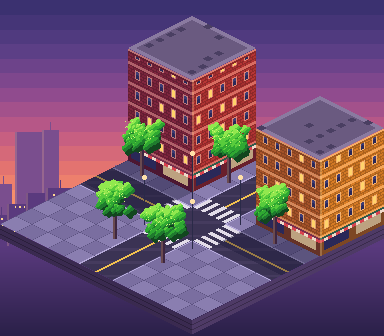
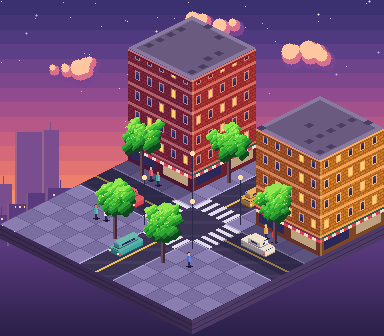
Iso block: cars, pedestrians, pixel-cluster clouds and stars
Claude-Session: https://claude.ai/code/session_018A3EjUJwum2xaBpGm7gsrV

diff --git a/games/background/iso/make_iso_v2.py b/games/background/iso/make_iso_v2.py
@@ -1,0 +1,177 @@
+"""Isometric city block, 2:1 pixel iso (tile 32x16), dusk. Art grid 384x336, then an HD-2D look pass (bloom, tilt-shift, vignette)."""
+import math, random
+from PIL import Image, ImageFilter, ImageChops
+W,H=384,336; OX,OY=192,128; N=12
+def hx(s): s=s.lstrip('#'); return tuple(int(s[i:i+2],16) for i in (0,2,4))
+def lerp(a,b,t): return tuple(max(0,min(255,int(a[i]+(b[i]-a[i])*t))) for i in range(3))
+def hsh(*a): return (hash(a)&0xffff)/65535.0
+SKY=[hx(c) for c in ("#3b3170","#5a3f86","#8a4a90","#c05a86","#e8776e","#ffa06a","#ffc383")]
+im=Image.new("RGB",(W,H)); px=im.load()
+STEPS=18
+def skycol(k):
+    pos=k/(STEPS-1)*(len(SKY)-1); i=min(int(pos),len(SKY)-2); return lerp(SKY[i],SKY[i+1],pos-i)
+for y in range(H):
+    k=min(STEPS-1,int(y/ (H*0.78) *STEPS))
+    for x in range(W): px[x,y]=skycol(k)
+rs=random.Random(5)
+# far skyline: two flat layers with a few lit windows (hard shapes, no dither)
+def skyline(base,hmin,hmax,col,win,seed):
+    r=random.Random(seed); x=-6
+    while x<W:
+        w=r.randint(14,30); h=r.randint(hmin,hmax)
+        for xx in range(x,min(W,x+w)):
+            for yy in range(base-h,base):
+                if 0<=xx<W and 0<=yy<H:
+                    c=col
+                    if xx==x or xx==x+1: c=lerp(col,(255,190,150),.22)
+                    if win and (xx-x)%5 in (2,3) and (yy%6) in (2,3) and yy<base-4 and 3<xx-x<w-3 and hsh(xx//5,yy//6,seed)<.3: c=hx("#ffd890")
+                    px[xx,yy]=c
+        if r.random()<.4:
+            for yy in range(base-h-8,base-h):
+                if 0<=x+w//2<W and 0<=yy<H: px[x+w//2,yy]=col
+        x+=w+r.randint(-4,3)
+skyline(232,40,110,hx("#7a4e8e"),False,1)
+skyline(246,26,80,hx("#5a3a7e"),True,2)
+for yy in range(246,H):
+    for xx in range(W): px[xx,yy]=lerp(hx("#5a3a7e"),hx("#2a2048"),(yy-246)/(H-246))
+def put(x,y,c):
+    if 0<=x<W and 0<=y<H: px[x,y]=c
+def scr(gx,gy,gz=0): return int(round(OX+(gx-gy)*16)), int(round(OY+(gx+gy)*8-gz))
+def inv(sx,sy): a=(sx-OX)/16; b=(sy-OY)/8; return (a+b)/2,(b-a)/2
+BUILD=[(0,4,0,4,112,"brick"),(8,12,0,4,96,"orange")]      # bx0,bx1,by0,by1,height,colour
+def inshadow(gx,gy):
+    for bx0,bx1,by0,by1,h,_ in BUILD:
+        d=h/40.0
+        if bx0<=gx<bx1 and by1<=gy<by1+d*(1-0.0): return True
+    return False
+ROAD=lambda g:5<=g<7
+ASPH=hx("#3b3354"); ASPH2=hx("#453b5e"); SIDE=hx("#8a7eb0"); SIDE2=hx("#7a6ea0"); JOINT=hx("#5c5280"); CURB=hx("#b4a8d8")
+# ---- ground by inverse mapping
+for y in range(H):
+    for x in range(W):
+        gx,gy=inv(x+.5,y+.5)
+        if not(0<=gx<N and 0<=gy<N): continue
+        rx,ry=ROAD(gx),ROAD(gy)
+        if rx or ry:
+            c=ASPH if int(gx*3+gy*3)%5 else ASPH2
+            if rx and ry: pass
+            elif ry:   # road runs along x (gy in 5..7)
+                if abs(gy-6)<.05 and not(3.9<gx<5.05 or 6.95<gx<8.1): c=hx("#f2c14e")
+                elif (3.9<gx<4.9 or 7.1<gx<8.1) and int((gy-5)*4.5)%2==0: c=hx("#e2dce8")
+            else:      # road runs along y
+                if abs(gx-6)<.05 and not(3.9<gy<5.05 or 6.95<gy<8.1): c=hx("#f2c14e")
+                elif (3.9<gy<4.9 or 7.1<gy<8.1) and int((gx-5)*4.5)%2==0: c=hx("#e2dce8")
+        else:
+            c=SIDE if (int(gx)+int(gy))%2 else SIDE2
+            for e in (5,7):
+                if abs(gx-e)<.09 or abs(gy-e)<.09: c=CURB
+            if abs(gx-int(gx))<.04 or abs(gy-int(gy))<.04: c=JOINT
+        if inshadow(gx,gy): c=lerp(c,hx("#1d1a3a"),.42)
+        px[x,y]=c
+# ---- slab sides (diorama thickness)
+TH=14
+for i in range(N*16):
+    for side in (0,1):
+        if side==0: xc=OX-(N-0)*0; sx=scr(N,N)[0]-1-i; ytop=scr(N,N)[1]-i//2   # left face (gy=N)
+        else: sx=scr(N,N)[0]+i; ytop=scr(N,N)[1]-i//2
+        for t in range(TH):
+            c=hx("#3a2a50") if side==0 else hx("#4e3a66")
+            if t%5==4: c=lerp(c,(0,0,0),.25)
+            put(sx,ytop+t,c)
+# ---- sprites
+def building(bx0,bx1,by0,by1,Hh,kind):
+    lit,shd={"brick":(hx("#c83a3a"),hx("#8e2a46")),"orange":(hx("#f08a2a"),hx("#c06030")),"blue":(hx("#4a6ad0"),hx("#2f4496"))}[kind]
+    xc,yc=scr(bx1,by1)
+    for face in (0,1):
+        L=((bx1-bx0) if face==0 else (by1-by0))*16
+        base=shd if face==0 else lit
+        for i in range(L):
+            sx=xc-1-i if face==0 else xc+i
+            yb=yc-i//2
+            for v in range(Hh):
+                y=yb-v-1; c=base
+                u=i if face==0 else i
+                fl=v//20; fv=v%20
+                if v<18:                                         # ground floor shop
+                    c=lerp(base,(10,5,30),.5)
+                    if 3<v<13 and 3<u%32<29: c=lerp(hx("#5a5aa0"),hx("#ffd36b"),.6) if (u//32+face)%2==0 else hx("#2a2858")
+                    elif 13<=v<16: c=hx("#d8434f") if (u//4)%2==0 else hx("#f0d8c8")
+                    elif v>=16: c=hx("#7a2f4c") if face==0 else hx("#2f5a4a")
+                elif fv>=17 and v<Hh-4: c=lerp(base,(255,225,190),.3)       # floor ledge
+                elif v>=Hh-4: c=lerp(base,(255,225,190),.4) if v>=Hh-2 else lerp(base,(0,0,0),.3)  # cornice
+                elif 4<fv<14 and 3<u%12<9:
+                    inner=5<fv<13 and 4<u%12<8
+                    lit_w=hsh(u//12,fl,face,bx0)<.4
+                    c=(hx("#ffd36b") if lit_w else hx("#2a2858")) if inner else lerp(base,(255,225,190),.45)
+                    if inner and not lit_w and fv>9: c=lerp(c,hx("#5a5aa0"),.4)
+                else:
+                    row=v//3; off=2 if row%2 else 0
+                    j=hsh(row,(u+off)//5,face)
+                    c=lerp(base,(0,0,0),.08+.1*j)
+                    if v%3==0 or (u+off)%5==0: c=lerp(base,(0,0,0),.3)
+                if i<2: c=lerp(c,(255,225,170),.25) if face==1 else c   # edge light
+                put(sx,y,c)
+    # roof
+    pts=[scr(bx0,by0,Hh),scr(bx1,by0,Hh),scr(bx1,by1,Hh),scr(bx0,by1,Hh)]
+    xs=[p[0] for p in pts]; ys=[p[1] for p in pts]
+    for y in range(int(min(ys)),int(max(ys))+1):
+        for x in range(int(min(xs)),int(max(xs))+1):
+            gx,gy=inv(x+.5,y+.5+ (Hh))   # invert at roof height
+            if bx0<=gx<bx1 and by0<=gy<by1:
+                c=hx("#6a5a80"); 
+                if gx<bx0+.25 or gy<by0+.25 or gx>bx1-.25 or gy>by1-.25: c=hx("#8a7aa0")
+                if hsh(int(gx*3),int(gy*3))<.08: c=hx("#4a3f62")
+                put(x,y,c)
+G=[tuple(hx(c)) for c in ("#12461f","#1f7a2e","#2fa832","#58cc3c","#92e84e","#d0f470")]
+def tree(gx,gy,seed):
+    rnd=random.Random(seed); sx,sy=scr(gx,gy)
+    for y in range(sy-26,sy+1):
+        for x in range(sx-2,sx+2): put(x,y,hx("#6a4a50") if x<sx else hx("#3e2640"))
+    cx,cy=sx,sy-40
+    lumps=[(cx+rnd.uniform(-1,1)*18*math.sqrt(rnd.random()),cy+rnd.uniform(-1,1)*14,rnd.uniform(4.5,7.5)) for _ in range(34)]
+    lumps.sort(key=lambda l:l[1]+l[0]*.5)
+    for li,(lx,ly,r) in enumerate(lumps):
+        for y in range(int(ly-r)-1,int(ly+r)+2):
+            for x in range(int(lx-r)-1,int(lx+r)+2):
+                dx,dy=x-lx,y-ly
+                if dx*dx+dy*dy*1.1>(r*(1+.15*math.sin(math.atan2(dy,dx)*4+li)))**2: continue
+                t=(-dx*.6-dy*.8)/r*.9-((ly-cy)/14)*.55
+                k=0 if t<-.55 else 1 if t<-.1 else 2 if t<.35 else 3 if t<.75 else 4
+                put(x,y,G[k])
+    for _ in range(26): put(int(cx+rnd.uniform(-17,12)),int(cy+rnd.uniform(-14,4)),G[5])
+def lamp(gx,gy):
+    sx,sy=scr(gx,gy)
+    for y in range(sy-44,sy+1): put(sx,y,hx("#2a2a48"))
+    for dx in range(-2,3):
+        for dy in range(-2,3):
+            if abs(dx)+abs(dy)<=3: put(sx+dx,sy-47+dy,hx("#ffe0a8"))
+objs=[("b",BUILD[0],4),("b",BUILD[1],12)]
+for gx,gy in ((4.5,2.2),(7.5,2.2),(4.5,9.3),(7.5,9.3),(1.4,4.5),(9.8,4.6)): objs.append(("t",(gx,gy),gx+gy))
+for gx,gy in ((4.5,4.5),(7.5,4.5),(4.5,7.5),(7.5,7.5)): objs.append(("l",(gx,gy),gx+gy+.1))
+objs.sort(key=lambda o:o[2])
+for k,(kind,a,_) in enumerate(objs):
+    if kind=="b": building(*a)
+    elif kind=="t": tree(a[0],a[1],k)
+    else: lamp(*a)
+art=im; art.save("iso_block_art.png")
+S=3; big=art.resize((W*S,H*S),Image.NEAREST); big.save("iso_block_x3.png")
+# ---- HD-2D look pass: bloom on bright, tilt-shift blur, vignette, warm grade
+try:
+    import numpy as np
+    a=np.asarray(big).astype("float32")/255
+    art_np=np.asarray(art).astype("int16")
+    def near(c,t=10): return (abs(art_np-np.array(c)).sum(axis=2)<t)
+    lights=near((255,211,107))|near((255,224,168))|near((255,217,140),14)
+    lm=np.kron(lights,np.ones((S,S),dtype=bool))
+    bright=np.where(lm[...,None],a,0)
+    bl=Image.fromarray((bright*255).astype("uint8")).filter(ImageFilter.GaussianBlur(10))
+    a=np.clip(a+np.asarray(bl).astype("float32")/255*1.0,0,1)
+    blur=np.asarray(Image.fromarray((a*255).astype("uint8")).filter(ImageFilter.GaussianBlur(5))).astype("float32")/255
+    yy=np.linspace(0,1,a.shape[0])[:,None,None]; m=np.clip(np.maximum((0.22-yy)/0.22,(yy-0.78)/0.22),0,1)
+    a=a*(1-m)+blur*m
+    xx=np.linspace(-1,1,a.shape[1])[None,:,None]; yv=np.linspace(-1,1,a.shape[0])[:,None,None]
+    vig=1-0.28*np.clip(xx**2+yv**2-0.25,0,1); a=a*vig
+    a=a*np.array([1.04,1.0,0.96])
+    Image.fromarray((np.clip(a,0,1)*255).astype("uint8")).save("iso_block_hd2d.png")
+    print("hd2d ok")
+except Exception as e: print("hd2d skipped",e)

diff --git a/games/background/iso/make_iso.py b/games/background/iso/make_iso.py
@@ -14,6 +14,22 @@ for y in range(H):
     k=min(STEPS-1,int(y/ (H*0.78) *STEPS))
     for x in range(W): px[x,y]=skycol(k)
 rs=random.Random(5)
+def blob(cx,cy,r,col):
+    for yy in range(int(cy-r),int(cy+r)+1):
+        for xx in range(int(cx-r),int(cx+r)+1):
+            if (xx-cx)**2+(yy-cy)**2<=r*r and 0<=xx<W and 0<=yy<H: px[xx,yy]=col
+rs2=random.Random(21)
+for _ in range(46):                                   # stars: distinct pixel clusters in the upper sky
+    x,y=rs2.randint(0,W-1),rs2.randint(0,95); c=hx("#ffe9c8") if rs2.random()<.4 else hx("#c9b8f0")
+    px[x,y]=c
+    if rs2.random()<.18:
+        for dx,dy in ((1,0),(-1,0),(0,1),(0,-1)):
+            if 0<=x+dx<W and 0<=y+dy<H: px[x+dx,y+dy]=lerp(c,SKY[1],.5)
+CLS=[hx("#7a4590"),hx("#d9708e"),hx("#ffc7a0")]
+for cx,cy,n in ((70,70,7),(300,58,8),(210,28,6)):      # clouds: flat 3-tone clumps
+    bl=[(cx+rs2.randint(-26,26),cy+rs2.randint(-5,5),rs2.randint(7,12)) for _ in range(n)]
+    for k,(dx,dy,sh) in enumerate(((0,0,0),(-2,-3,2),(-4,-6,4))):
+        for bx,by,r in bl: blob(bx+dx,by+dy,max(3,r-sh),CLS[k])
 # far skyline: two flat layers with a few lit windows (hard shapes, no dither)
 def skyline(base,hmin,hmax,col,win,seed):
     r=random.Random(seed); x=-6
@@ -145,13 +161,61 @@ def lamp(gx,gy):
     for dx in range(-2,3):
         for dy in range(-2,3):
             if abs(dx)+abs(dy)<=3: put(sx+dx,sy-47+dy,hx("#ffe0a8"))
+def box(bx0,bx1,by0,by1,z0,z1,lit,shd,top,glass=False,head=None):
+    xc,yc=scr(bx1,by1)
+    for face in (0,1):
+        L=int(round(((bx1-bx0) if face==0 else (by1-by0))*16))
+        for i in range(L):
+            sx=xc-1-i if face==0 else xc+i; yb=yc-z0-i//2
+            for v in range(z1-z0):
+                c=shd if face==0 else lit
+                if glass and 1<v<z1-z0-1 and 2<i<L-3:
+                    c=hx("#2a2858") if (i+v)%7 else hx("#5a5aa0")
+                if v==z1-z0-1: c=lerp(c,(255,235,200),.2)
+                if v<1: c=lerp(c,(0,0,0),.35)
+                put(sx,yb-v-1,c)
+            if head and ((head=="R" and face==1) or (head=="L" and face==0)) and (i<2 or i>=L-2) and 1<=z1-z0:
+                put(sx,yc-z0-i//2-3,hx("#ffe0a8")); put(sx,yc-z0-i//2-4,hx("#ffe0a8"))
+            if head and ((head=="L" and face==1) or (head=="R" and face==0)) and (i<2 or i>=L-2):
+                put(sx,yc-z0-i//2-3,hx("#e03030"))
+    pts=[scr(bx0,by0,z1),scr(bx1,by0,z1),scr(bx1,by1,z1),scr(bx0,by1,z1)]
+    for y in range(min(p[1] for p in pts),max(p[1] for p in pts)+1):
+        for x in range(min(p[0] for p in pts),max(p[0] for p in pts)+1):
+            gx,gy=inv(x+.5,y+.5+z1)
+            if bx0<=gx<bx1 and by0<=gy<by1: put(x,y,top)
+def car(cx,cy,axis,col,head):
+    ln,wd=(0.75,0.3) if axis=="x" else (0.3,0.75)
+    lit,shd=col,lerp(col,(20,10,50),.4); top=lerp(col,(255,235,200),.15)
+    box(cx-ln,cx+ln,cy-wd,cy+wd,0,6,lit,shd,top,False,head)
+    k=0.55
+    box(cx-ln*k*0.9,cx+ln*k*0.9,cy-wd*.8,cy+wd*.8,6,11,lerp(col,(255,255,255),.1),lerp(shd,col,.3),lerp(col,(255,235,200),.25),True)
+def ped(gx,gy,col,seed):
+    sx,sy=scr(gx,gy)
+    for dx in range(-3,4):
+        for dy in range(-1,2): 
+            if abs(dx)+abs(dy)*2<=3: put(sx+dx,sy+dy,hx("#1d1a3a"))
+    r=random.Random(seed); skin=[hx("#e8b890"),hx("#c88a60"),hx("#f0c8a0")][seed%3]; hair=[hx("#2a1a20"),hx("#5a3a20"),hx("#c8a040")][seed%3]
+    for y in range(sy-4,sy): put(sx-1,y,hx("#2a2858")); put(sx,y,hx("#2a2858"))
+    for y in range(sy-10,sy-4):
+        for x in range(sx-2,sx+2): put(x,y,col if x<sx else lerp(col,(255,255,255),.2))
+    put(sx-2,sy-9,col); put(sx+1,sy-9,col)
+    for y in range(sy-13,sy-10):
+        for x in range(sx-1,sx+1): put(x,y,skin)
+    for x in range(sx-1,sx+1): put(x,sy-14,hair)
+    put(sx-2,sy-13,hair)
 objs=[("b",BUILD[0],4),("b",BUILD[1],12)]
 for gx,gy in ((4.5,2.2),(7.5,2.2),(4.5,9.3),(7.5,9.3),(1.4,4.5),(9.8,4.6)): objs.append(("t",(gx,gy),gx+gy))
 for gx,gy in ((4.5,4.5),(7.5,4.5),(4.5,7.5),(7.5,7.5)): objs.append(("l",(gx,gy),gx+gy+.1))
+for cx,cy,ax,col,hd in ((2.5,6.5,"x",hx("#d8434f"),"L"),(9.6,5.5,"x",hx("#e8e0d0"),"R"),(5.5,9.6,"y",hx("#3fa7a3"),"L"),(6.5,2.4,"y",hx("#e0a03f"),"R")):
+    objs.append(("c",(cx,cy,ax,col,hd),cx+cy))
+for i,(gx,gy,col) in enumerate(((2.0,4.55,hx("#d8434f")),(2.5,4.6,hx("#3fa7a3")),(9.2,4.55,hx("#e0a03f")),(9.7,4.6,hx("#d8434f")),(2.6,8.6,hx("#3fa7a3")),(3.1,8.45,hx("#e8e0d0")),(8.5,8.7,hx("#4a6ad0")))):
+    objs.append(("p",(gx,gy,col,i),gx+gy))
 objs.sort(key=lambda o:o[2])
 for k,(kind,a,_) in enumerate(objs):
     if kind=="b": building(*a)
     elif kind=="t": tree(a[0],a[1],k)
+    elif kind=="c": car(*a)
+    elif kind=="p": ped(*a)
     else: lamp(*a)
 art=im; art.save("iso_block_art.png")
 S=3; big=art.resize((W*S,H*S),Image.NEAREST); big.save("iso_block_x3.png")
